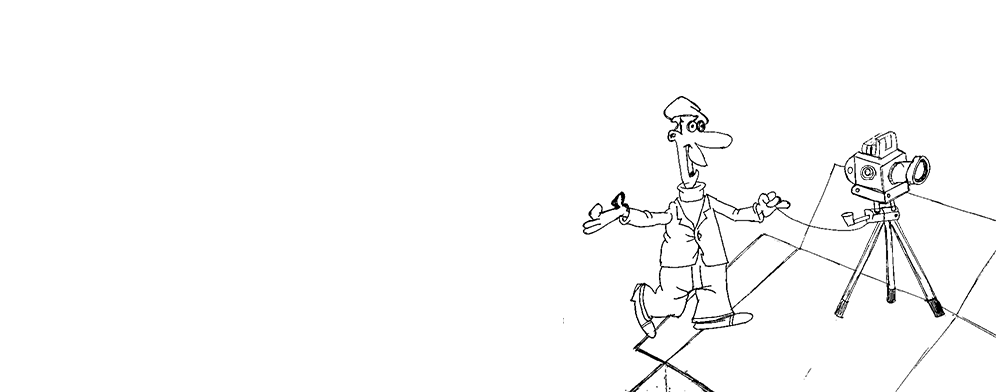
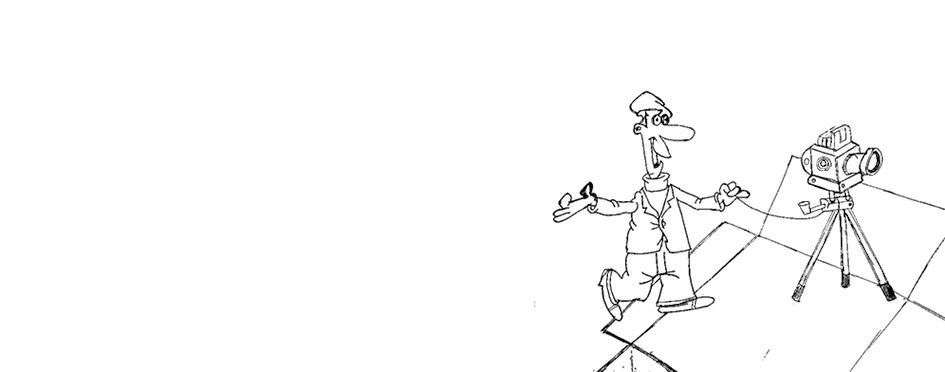
added other points section

diff --git a/app/assets/stylesheets/homepage/key_points.css.scss b/app/assets/stylesheets/homepage/key_points.css.scss
@@ -1,44 +1,50 @@
 .big_wrapper {
+  width: 100%;
   border-bottom: 1px solid #d2d2d2;
   background: #fff;
 }
-.big_wrapper .wrapper {
-  padding: 35px 0;
+
+.key_point
+{
+  width: 50%;
+  padding: 30px 10px 10px 10px;
 }
 
-.point_copy {
-  width: 440px;
-  h3 {
-    margin: 20px 0 30px 0;
-  }
+.point_detail
+{
+  width: 50%;
+  padding: 10px 10px;
 }
 
-.point_copy p, #other_points li p {
-    line-height: 1.5;
+.point_detail p
+{
+  line-height: 1.5;
 }
 
-#one {
-  background: url(image_path("1-background.png")) no-repeat bottom left;
-  height: 320px;
-  width: 936px;
-}
-
-#two {
-  background: url(image_path("2-background.png")) no-repeat bottom left;
+#one
+{
+  background: url(image_path("1-background.png")) no-repeat top left;
   height: 320px;
 }
 
-#three {
-  background: url(image_path("3-background.png")) no-repeat bottom left;
+#two
+{
+  background: url(image_path("2-background.png")) no-repeat top left;
+  height: 320px;
+}
+
+#three
+{
+  background: url(image_path("3-background.png")) no-repeat top left;
   height: 320px;
 }
 
 #four {
-  background: url(image_path("4-background.png")) no-repeat bottom left;
-  height: 320px;
-  width: 936px;
+  background: url(image_path("4-background.png")) no-repeat top left;
+  height: 400px;
 }
 
-.right {
-  margin-left: 500px;
+.right
+{
+  float: right;
 }

diff --git a/app/assets/stylesheets/homepage/subscribe.css.scss b/app/assets/stylesheets/homepage/subscribe.css.scss
@@ -3,37 +3,39 @@
   position: relative;
   width: 100%;
   height: 500px;
-  z-index: 999;
+  z-index: 500;
 }
 
 .subscribe_form
 {
   position: absolute;
-  bottom: 100px;
-  right: 40px;
+  bottom: 10%;
+  right: 5%;
   width: 38%
 }
 
 .subscribe_email_form
 {
-  padding: 4px;
+  padding: 2%;
   border-radius: 10px;
-  border: 2px solid #CCC;
+  border: 1% solid #CCC;
   outline: none;
-  width: 300px;
+  width: 94%;
   background-color: white;
 }
 
 .subscribe_call
 {
-  width: 100%;
-  padding: 0px 5px;
+  width: 96%;
+  padding: 0% 2%;
 }
 
 .subscribe_call h4
 {
+  width: 100%;
   margin-bottom: 2px;
-  text-align: left;
+  text-align: center;
+  font-size: 16px;
 }
 
 .subscribe_button
@@ -41,9 +43,9 @@
   display: inline;
   border: 2px solid white;
   border-radius: 5px;
-  padding: 3px;
+  padding: 1%;
   margin: 0 auto;
-  width: 50px;
+  width: 20%;
   font-size: 14px;
   background-color: #550055;
   color: $button_color; /* text color */
@@ -53,9 +55,9 @@
 .text_field
 {
   font-size: 14px;
-  padding: 3px;
+  padding: 1%;
   margin: 0 auto;
-  width: 230px;
+  width: 68%;
   outline: none;
   border: 2px solid white;
   border-radius: 5px;

diff --git a/app/assets/stylesheets/header.css.scss b/app/assets/stylesheets/header.css.scss
@@ -25,17 +25,14 @@
 }
 
 #header #product_name{
-  width:100%;
+  width: 20%;
   float: left;
   height: 50px;
   margin-left: 10px;
 }
 
-#header #product_name .inner
-{
-  margin-top: 0px;
-}
 #header #product_name h1{
+  width: 100%;
   float:left;
   margin-left: 0px;
   color: #550055;

diff --git a/app/assets/stylesheets/homepage.css.scss b/app/assets/stylesheets/homepage.css.scss
@@ -2,6 +2,5 @@
 /*@import "homepage/call_to_action";*/
 @import "homepage/key_points";
 @import "homepage/subscribe";
-/*@import "homepage/other_points";*/
+@import "homepage/other_points";
 /*@import "homepage/press";*/
-/*@import "homepage/faq";*/

diff --git a/app/assets/stylesheets/faq.css.scss b/app/assets/stylesheets/faq.css.scss
@@ -1,5 +1,3 @@
-
-// Used in the FAQ
 details, summary
 {
   outline: none;
